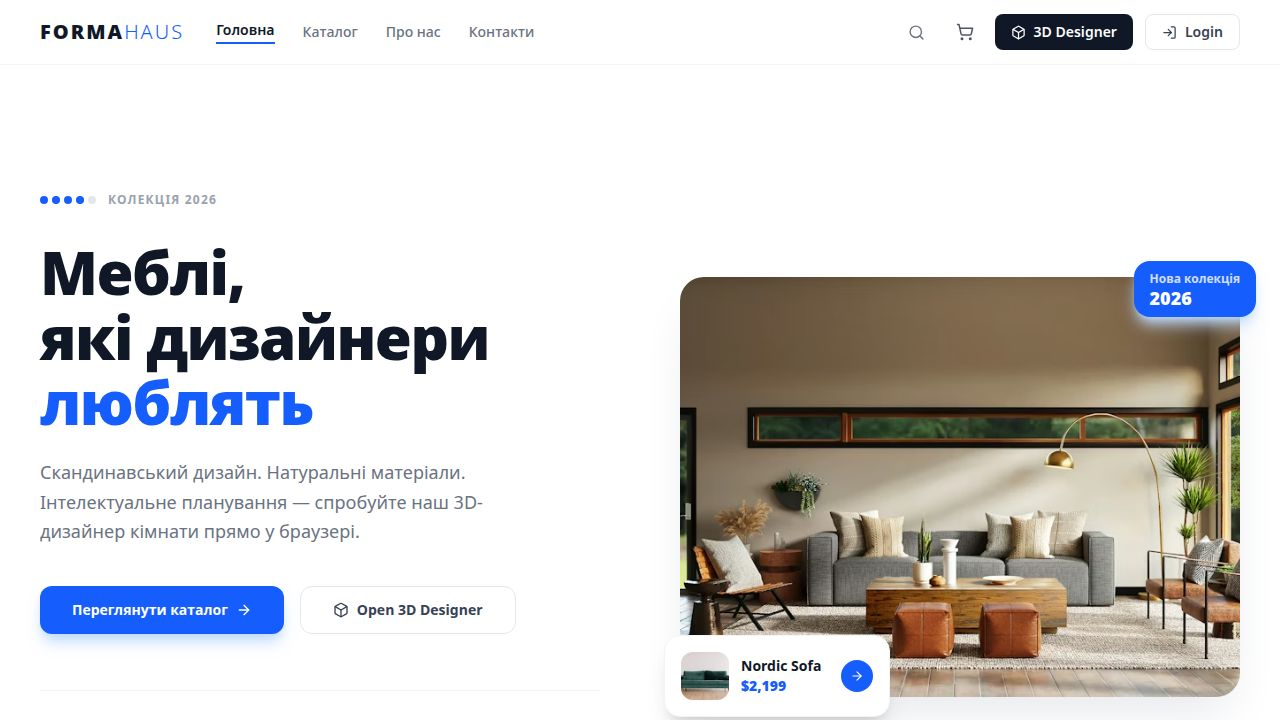
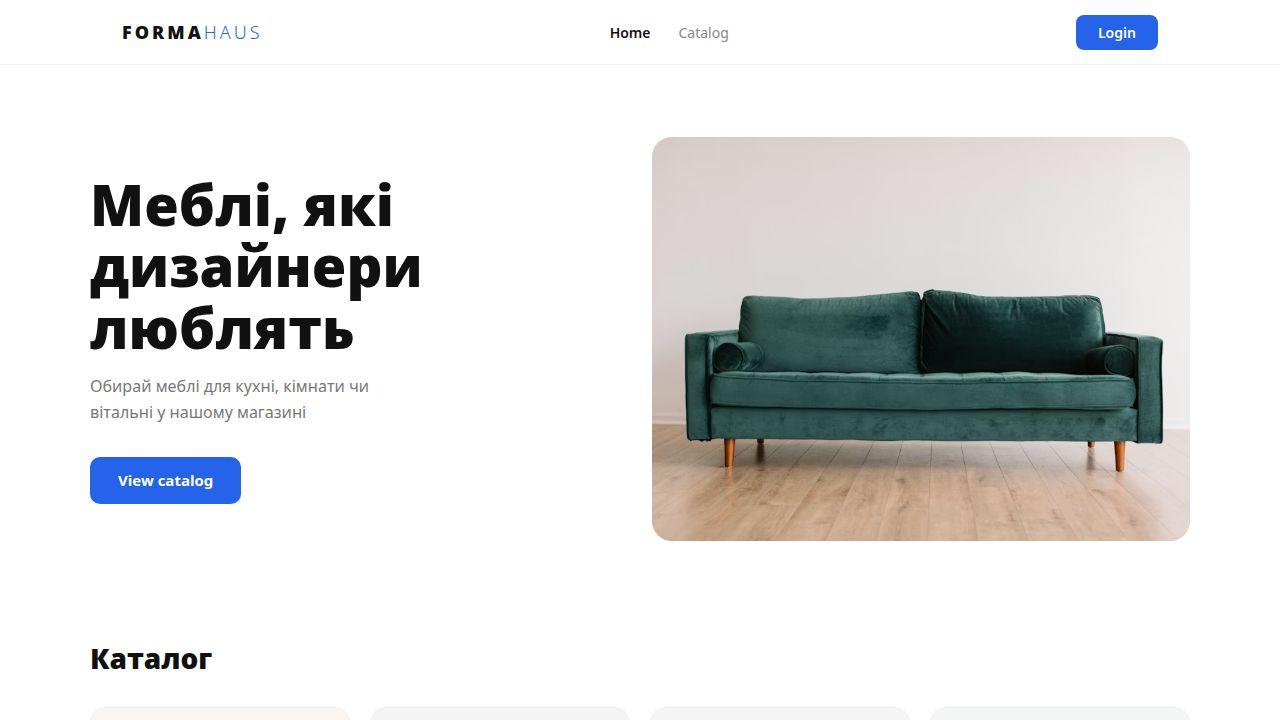
Update website to match a light design and remove unnecessary buttons
Remove cart button from navigation and 3D designer button from hero section.

Replit-Commit-Author: Agent
Replit-Commit-Session-Id: f6fe658a-36aa-4770-a956-aa500a5e3172
Replit-Commit-Checkpoint-Type: full_checkpoint
Replit-Commit-Event-Id: 3a1fa310-e100-4d06-8d0f-ee11478abe43
Replit-Commit-Screenshot-Url: https://storage.googleapis.com/screenshot-production-us-central1/8db502d0-208f-49bb-af01-d806db74af98/f6fe658a-36aa-4770-a956-aa500a5e3172/iqVKcQm
Replit-Helium-Checkpoint-Created: true

diff --git a/artifacts/furniture-store/src/pages/Home.tsx b/artifacts/furniture-store/src/pages/Home.tsx
@@ -1,6 +1,5 @@
 import { useState } from "react";
 import { Link } from "wouter";
-import { useCart } from "../context/CartContext";
 
 /* ─── catalogue items ──────────────────────────────────────── */
 const CATALOG = [
@@ -50,7 +49,6 @@ function SafeImg({
 
 /* ─── nav ──────────────────────────────────────────────────── */
 function Nav() {
-  const { itemCount } = useCart();
   return (
     <header
       style={{
@@ -70,7 +68,6 @@ function Nav() {
           height: 64,
           display: "flex",
           alignItems: "center",
-          gap: 40,
         }}
       >
         {/* Logo */}
@@ -91,7 +88,7 @@ function Nav() {
         </Link>
 
         {/* Center nav */}
-        <nav style={{ display: "flex", gap: 28, marginLeft: 8 }}>
+        <nav style={{ display: "flex", gap: 28, margin: "0 auto" }}>
           <a
             href="/"
             style={{
@@ -116,57 +113,21 @@ function Nav() {
           </a>
         </nav>
 
-        {/* Right */}
-        <div style={{ marginLeft: "auto", display: "flex", alignItems: "center", gap: 12 }}>
-          <Link href="/cart">
-            <button
-              style={{
-                position: "relative",
-                background: "none",
-                border: "1px solid #E5E5E5",
-                borderRadius: 8,
-                padding: "6px 16px",
-                fontSize: 14,
-                fontWeight: 500,
-                color: "#333",
-                cursor: "pointer",
-                display: "flex",
-                alignItems: "center",
-                gap: 6,
-              }}
-            >
-              Кошик
-              {itemCount > 0 && (
-                <span
-                  style={{
-                    background: "#2563EB",
-                    color: "#fff",
-                    borderRadius: 999,
-                    fontSize: 11,
-                    fontWeight: 700,
-                    padding: "1px 7px",
-                  }}
-                >
-                  {itemCount}
-                </span>
-              )}
-            </button>
-          </Link>
-          <button
-            style={{
-              background: "#2563EB",
-              color: "#fff",
-              border: "none",
-              borderRadius: 8,
-              padding: "6px 20px",
-              fontSize: 14,
-              fontWeight: 600,
-              cursor: "pointer",
-            }}
-          >
-            Login
-          </button>
-        </div>
+        {/* Right — only Login */}
+        <button
+          style={{
+            background: "#2563EB",
+            color: "#fff",
+            border: "none",
+            borderRadius: 8,
+            padding: "7px 22px",
+            fontSize: 14,
+            fontWeight: 600,
+            cursor: "pointer",
+          }}
+        >
+          Login
+        </button>
       </div>
     </header>
   );
@@ -216,40 +177,22 @@ function Hero() {
           >
             Обирай меблі для кухні, кімнати чи вітальні у нашому магазині
           </p>
-          <div style={{ display: "flex", gap: 12, flexWrap: "wrap" }}>
-            <a href="#catalog" style={{ textDecoration: "none" }}>
-              <button
-                style={{
-                  background: "#2563EB",
-                  color: "#fff",
-                  border: "none",
-                  borderRadius: 10,
-                  padding: "12px 28px",
-                  fontSize: 15,
-                  fontWeight: 700,
-                  cursor: "pointer",
-                }}
-              >
-                View catalog
-              </button>
-            </a>
-            <Link href="/designer">
-              <button
-                style={{
-                  background: "none",
-                  color: "#555",
-                  border: "1px solid #E0E0E0",
-                  borderRadius: 10,
-                  padding: "12px 24px",
-                  fontSize: 15,
-                  fontWeight: 600,
-                  cursor: "pointer",
-                }}
-              >
-                3D Designer
-              </button>
-            </Link>
-          </div>
+          <a href="#catalog" style={{ textDecoration: "none" }}>
+            <button
+              style={{
+                background: "#2563EB",
+                color: "#fff",
+                border: "none",
+                borderRadius: 10,
+                padding: "12px 28px",
+                fontSize: 15,
+                fontWeight: 700,
+                cursor: "pointer",
+              }}
+            >
+              View catalog
+            </button>
+          </a>
         </div>
 
         {/* Right — single static interior photo */}